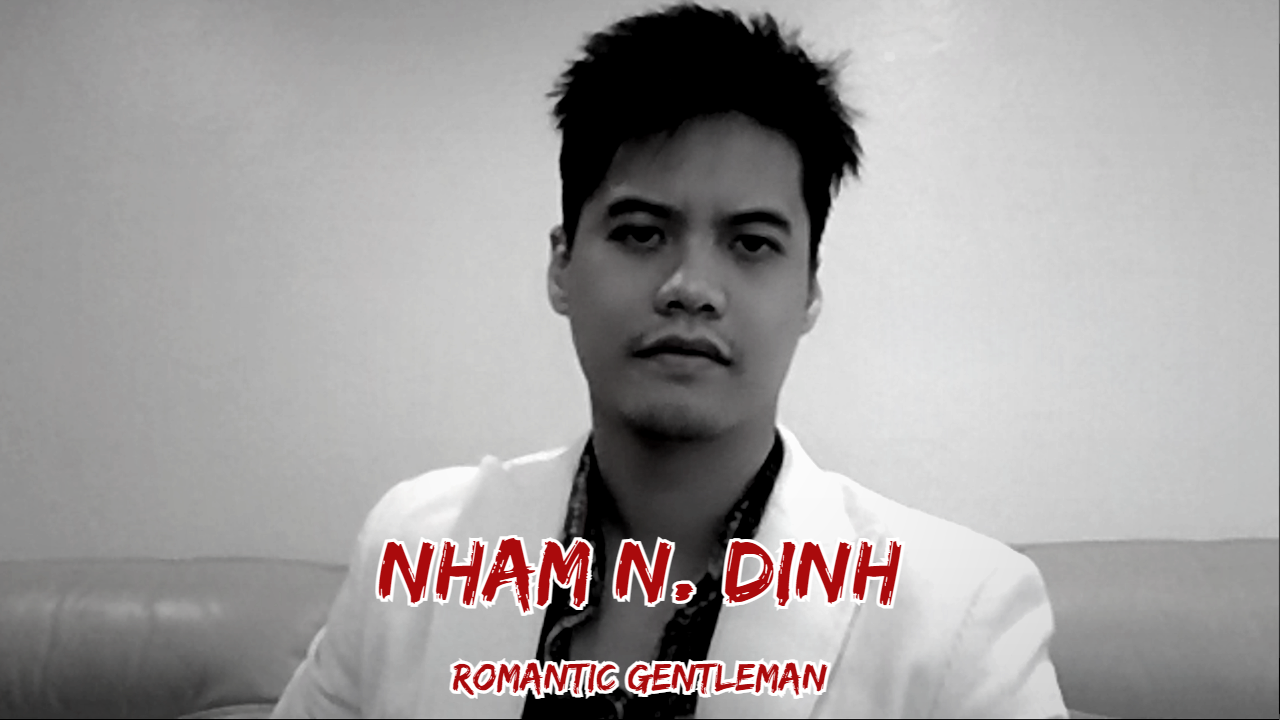
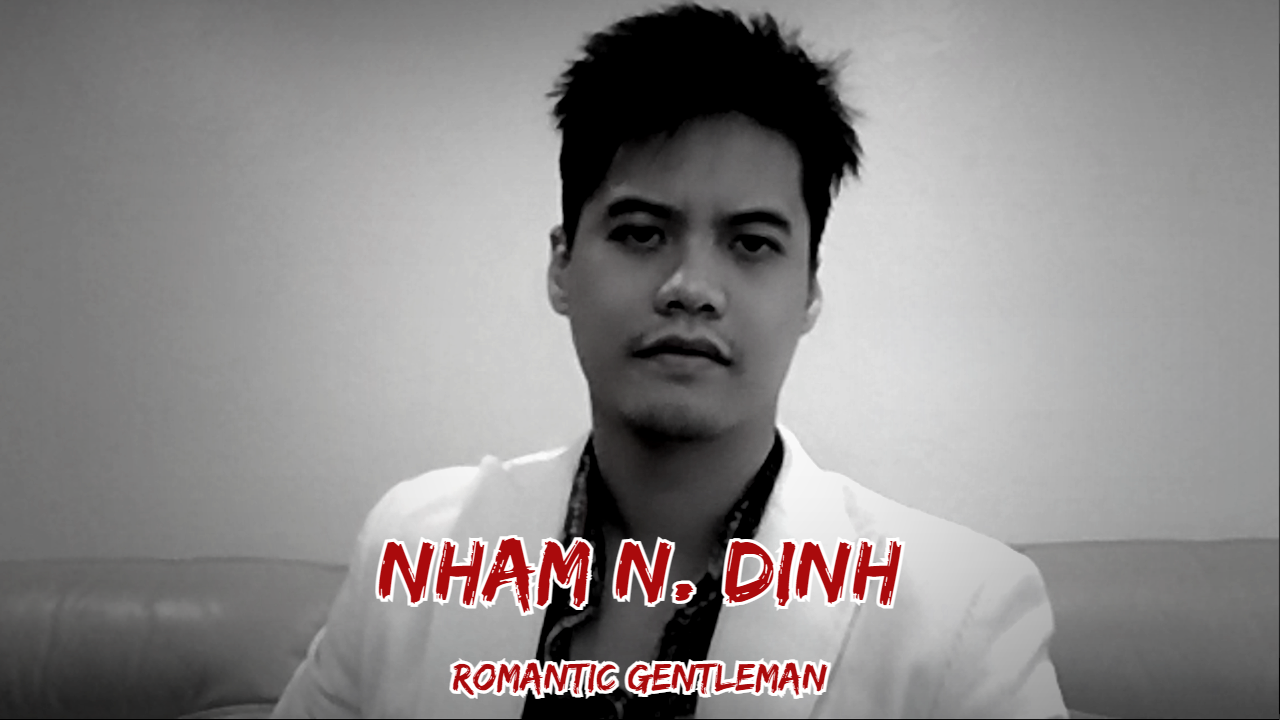
clean up

diff --git a/src/components/TopNavigation.js b/src/components/TopNavigation.js
@@ -9,7 +9,6 @@ import Experience from "./Experience";
 
 export default class TopNavigation extends Component {
     render() {
-        // console.log(process.env.PUBLIC_URL)
         return (
             <React.Fragment>
                 <Navbar bg="light" expand="lg">
@@ -17,37 +16,19 @@ export default class TopNavigation extends Component {
                         <Navbar.Toggle aria-controls="basic-navbar-nav" />
                         <Navbar.Collapse id="basic-navbar-nav">
                         <Nav className="me-auto navigation" style={{margin: "auto"}}>
-                            {/* <Nav.Link href="/">About Me</Nav.Link>
-                            <Nav.Link href="/experience">Experience</Nav.Link> */}
-                            {/* <Nav.Link href="#home" Link="#home">About Me</Nav.Link>
-                            <Nav.Link href="#experience" Link="#experience">Experience</Nav.Link> */}
-                            {/* <Nav.Link href="#">Test#</Nav.Link>
-                            <Nav.Link href="/">Test/</Nav.Link>
-                            <Nav.Link>TestEmpty</Nav.Link>
-                            <Nav.Link href={process.env.PUBLIC_URL}>TestEnv</Nav.Link> */}
-                            {/* <Nav.Link href="#">About Me 2</Nav.Link>
-                            <Nav.Link href="#home">About Me</Nav.Link> */}
                             <Nav.Link href={process.env.PUBLIC_URL}>About Me</Nav.Link>
                             <Nav.Link href="#experience">Experience</Nav.Link>
-                            {/* <Nav.Link href="#home" Link="#home">About Me</Nav.Link>
-                            <Nav.Link href="#experience" Link="#experience">Experience</Nav.Link> */}
                             <Nav.Link href={Resume} target="_self">Resume</Nav.Link>
                         </Nav>
                         </Navbar.Collapse>
                     </Container>
                 </Navbar>
-                {/* <BrowserRouter basename={process.env.PUBLIC_URL}> */}
                 <Router>
-                {/* <BrowserRouter basename="asdf"> */}
                     <Switch>
-                        {/* <Route exact path='/' component={Home} /> */}
-                        {/* <Route exact path='/home' component={Home} /> */}
                         <Route exact path='/experience' component={Experience} />
-                        {/* <Route exact path='/' component={Home} /> */}
                         <Route exact component={Home} />
                     </Switch>
                 </Router>
-                {/* </BrowserRouter> */}
             </React.Fragment>
         )
     }

diff --git a/src/components/Home.js b/src/components/Home.js
@@ -1,6 +1,6 @@
 import React, { Component } from "react";
 import "../myStyle.css";
-import Image from "../media/kiwamigenerator.png";
+import Image from "../media/romantic_gentleman.png";
 
 export default class Home extends Component {
     render() {
@@ -8,7 +8,6 @@ export default class Home extends Component {
             <div className="row" style={{padding: "75px", margin: "0 auto"}}>
                 
                 <div className="col-6 col-s-6">
-                    {/* <div style={{height: "275px"}}> */}
                     <div>
                         <img src={Image} alt="Nham N. Dinh"/>
                     </div>

diff --git a/src/components/ExperienceItem.js b/src/components/ExperienceItem.js
@@ -26,7 +26,6 @@ export default class ExperienceItem extends Component {
     render() {
         return (
             <div className="experience-item">
-                {/* <h1>{this.props.employer}</h1> */}
                 <h1>{Parser(this.getTitle())}</h1>
                 <h2>{this.props.jobTitle}</h2>
                 <h3>{this.props.timeFrame}</h3>

diff --git a/src/myStyle.css b/src/myStyle.css
@@ -50,7 +50,6 @@ footer {
 
 .header-brand {
   font-weight: 600;
-  /* font-size: 60px; */
   color: rgb(66, 66, 66);
 }
 
